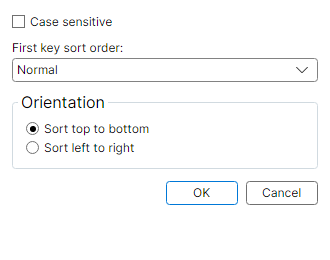
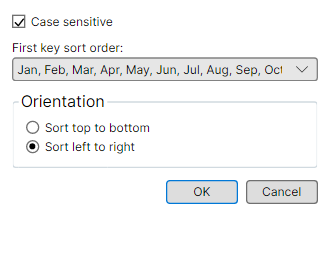
Improve Avalonia Sort Options visual parity

diff --git a/src/FreeX.App.Avalonia/MainWindow.cs b/src/FreeX.App.Avalonia/MainWindow.cs
@@ -18875,7 +18875,7 @@ public sealed partial class MainWindow : Window
         SortDialogOptions? result = null;
         var dialog = new Window
         {
-            Title = "Sort Options",
+            Title = UiText.Get("SortOptions_SortOptions"),
             Width = 330,
             Height = 260,
             MinWidth = 330,
@@ -18891,7 +18891,7 @@ public sealed partial class MainWindow : Window
 
         var caseSensitiveBox = new CheckBox
         {
-            Content = "Case sensitive",
+            Content = UiText.Get("SortOptions_CaseSensitive"),
             IsChecked = current.CaseSensitive,
             Margin = new Thickness(0, 0, 0, 10),
         };
@@ -18900,11 +18900,11 @@ public sealed partial class MainWindow : Window
 
         var firstKeyChoices = new[]
         {
-            new SortDialogComboItem<string>("Normal", normalFirstKeySortOrder),
-            new SortDialogComboItem<string>("Sun, Mon, Tue, Wed, Thu, Fri, Sat", "Sun, Mon, Tue, Wed, Thu, Fri, Sat"),
-            new SortDialogComboItem<string>("Sunday, Monday, Tuesday, Wednesday, Thursday, Friday, Saturday", "Sunday, Monday, Tuesday, Wednesday, Thursday, Friday, Saturday"),
-            new SortDialogComboItem<string>("Jan, Feb, Mar, Apr, May, Jun, Jul, Aug, Sep, Oct, Nov, Dec", "Jan, Feb, Mar, Apr, May, Jun, Jul, Aug, Sep, Oct, Nov, Dec"),
-            new SortDialogComboItem<string>("January, February, March, April, May, June, July, August, September, October, November, December", "January, February, March, April, May, June, July, August, September, October, November, December"),
+            new SortDialogComboItem<string>(UiText.Get("SortOptions_FirstKeyNormal"), normalFirstKeySortOrder),
+            new SortDialogComboItem<string>(UiText.Get("SortOptions_FirstKeySunToSatShort"), "Sun, Mon, Tue, Wed, Thu, Fri, Sat"),
+            new SortDialogComboItem<string>(UiText.Get("SortOptions_FirstKeySundayToSaturday"), "Sunday, Monday, Tuesday, Wednesday, Thursday, Friday, Saturday"),
+            new SortDialogComboItem<string>(UiText.Get("SortOptions_FirstKeyJanToDecShort"), "Jan, Feb, Mar, Apr, May, Jun, Jul, Aug, Sep, Oct, Nov, Dec"),
+            new SortDialogComboItem<string>(UiText.Get("SortOptions_FirstKeyJanuaryToDecember"), "January, February, March, April, May, June, July, August, September, October, November, December"),
         };
         var normalizedFirstKey = firstKeyChoices.FirstOrDefault(choice =>
             string.Equals(choice.Value, current.FirstKeySortOrder, StringComparison.Ordinal) ||
@@ -18920,6 +18920,7 @@ public sealed partial class MainWindow : Window
             MaxHeight = 24,
             Padding = new Thickness(5, 0, 4, 0),
             FontSize = 12,
+            Background = Brush(230, 230, 230),
             BorderBrush = Brush(130, 130, 130),
             BorderThickness = new Thickness(1),
             VerticalContentAlignment = AvaloniaVerticalAlignment.Center,
@@ -18928,14 +18929,14 @@ public sealed partial class MainWindow : Window
 
         var topToBottomButton = new RadioButton
         {
-            Content = "Sort top to bottom",
+            Content = UiText.Get("SortOptions_SortTopToBottom"),
             IsChecked = !current.LeftToRight,
             GroupName = "SortOptionsOrientation",
             Margin = new Thickness(0, 0, 0, 1),
         };
         var leftToRightButton = new RadioButton
         {
-            Content = "Sort left to right",
+            Content = UiText.Get("SortOptions_SortLeftToRight"),
             IsChecked = current.LeftToRight,
             GroupName = "SortOptionsOrientation",
         };
@@ -18948,6 +18949,8 @@ public sealed partial class MainWindow : Window
         var cancelButton = new Button { Content = "Cancel", IsCancel = true, MinWidth = 72 };
         ApplySortDialogButtonChrome(okButton, isDefault: true);
         ApplySortDialogButtonChrome(cancelButton);
+        okButton.Background = Brush(221, 221, 221);
+        cancelButton.Background = Brush(221, 221, 221);
         AutomationProperties.SetAutomationId(okButton, "SortOptionsOkButton");
         AutomationProperties.SetAutomationId(cancelButton, "SortOptionsCancelButton");
 
@@ -18982,11 +18985,11 @@ public sealed partial class MainWindow : Window
             Children =
             {
                 caseSensitiveBox,
-                new TextBlock { Text = "First key sort order:", FontSize = 12, Margin = new Thickness(0, 0, 0, 3) },
+                new TextBlock { Text = StripDisplayMnemonic(UiText.Get("SortOptions_FirstKeySortOrderLabel")), FontSize = 12, Margin = new Thickness(0, 0, 0, 3) },
                 firstKeyBox,
                 new GroupBox
                 {
-                    Header = "Orientation",
+                    Header = StripDisplayMnemonic(UiText.Get("SortOptions_Orientation")),
                     Padding = new Thickness(8, 7, 8, 7),
                     Margin = new Thickness(0, 0, 0, 10),
                     BorderBrush = Brush(209, 218, 224),

diff --git a/tests/FreeX.App.Avalonia.Tests/DialogVisualParitySourceTests.cs b/tests/FreeX.App.Avalonia.Tests/DialogVisualParitySourceTests.cs
@@ -69,6 +69,29 @@ public sealed class DialogVisualParitySourceTests
         chrome.Should().Contain("groupBox.BorderBrush = borderBrush ?? GroupBoxBorderBrush;");
     }
 
+    [Fact]
+    public void SortOptionsDialog_UsesSharedLocalizationAndReferenceCaptureState()
+    {
+        var source = File.ReadAllText(RepoFile("src", "FreeX.App.Avalonia", "MainWindow.cs"));
+        var captureSource = File.ReadAllText(RepoFile("src", "FreeX.App.Avalonia", "MainWindow.ParityCapture.cs"));
+
+        source.Should().Contain("Title = UiText.Get(\"SortOptions_SortOptions\")");
+        source.Should().Contain("Content = UiText.Get(\"SortOptions_CaseSensitive\")");
+        source.Should().Contain("UiText.Get(\"SortOptions_FirstKeySortOrderLabel\")");
+        source.Should().Contain("UiText.Get(\"SortOptions_FirstKeyJanToDecShort\")");
+        source.Should().Contain("Content = UiText.Get(\"SortOptions_SortTopToBottom\")");
+        source.Should().Contain("Content = UiText.Get(\"SortOptions_SortLeftToRight\")");
+        source.Should().Contain("Header = StripDisplayMnemonic(UiText.Get(\"SortOptions_Orientation\"))");
+        source.Should().Contain("FirstKeySortOrder: firstKeyBox.SelectedItem is SortDialogComboItem<string> choice");
+        source.Should().Contain("AutomationProperties.SetAutomationId(dialog, \"SortOptionsDialog\")");
+        source.Should().Contain("AutomationProperties.SetAutomationId(firstKeyBox, \"SortOptionsFirstKeySortOrderBox\")");
+        source.Should().Contain("AutomationProperties.SetAutomationId(leftToRightButton, \"SortOptionsLeftToRightRadio\")");
+
+        captureSource.Should().Contain("CaseSensitive: true");
+        captureSource.Should().Contain("LeftToRight: true");
+        captureSource.Should().Contain("FirstKeySortOrder: \"Jan, Feb, Mar, Apr, May, Jun, Jul, Aug, Sep, Oct, Nov, Dec\"");
+    }
+
     private static string RepoFile(params string[] parts)
     {
         var directory = new DirectoryInfo(AppContext.BaseDirectory);

diff --git a/src/FreeX.App.Avalonia/MainWindow.ParityCapture.cs b/src/FreeX.App.Avalonia/MainWindow.ParityCapture.cs
@@ -464,7 +464,13 @@ public sealed partial class MainWindow
         ("dialog.CreateTable", () => ShowCreateTableParityDialogAsync()),
         ("dialog.RecommendedPivotTables", async () => { await ShowRecommendedPivotTablesDialogAsync(); }),
         ("dialog.Sort", () => ShowSortDialogAsync()),
-        ("dialog.SortOptions", async () => { await ShowSortOptionsDialogAsync(new SortDialogOptions()); }),
+        ("dialog.SortOptions", async () =>
+        {
+            await ShowSortOptionsDialogAsync(new SortDialogOptions(
+                CaseSensitive: true,
+                LeftToRight: true,
+                FirstKeySortOrder: "Jan, Feb, Mar, Apr, May, Jun, Jul, Aug, Sep, Oct, Nov, Dec"));
+        }),
         ("dialog.AutoFilter", () => ShowAutoFilterParityDialogAsync()),
         ("dialog.TextToColumns", () => ShowTextToColumnsParityDialogAsync()),
         ("dialog.AdvancedFilter", () => ShowAdvancedFilterParityDialogAsync()),

diff --git a/docs/parity/dialog-visual-evidence-summary.md b/docs/parity/dialog-visual-evidence-summary.md
@@ -63,7 +63,6 @@ Outliers are ranked by a deterministic triage score: normalized 32x32 ARGB sampl
 | Surface id | WPF logical size | Avalonia logical size | Raw PNG sizes | Bucket | Evidence flag | Score | Sample delta | Luma delta | Non-bg delta |
 | --- | ---: | ---: | --- | --- | --- | ---: | ---: | ---: | ---: |
 | dialog.PrintPreview | 1120x700 | 1120x700 | 1120x700 px @ 96 DPI vs 1120x700 px @ 96 DPI |  |  | 0.378 | 0.126 | 0.061 | 0.191 |
-| dialog.SortOptions | 330x260 | 330x260 | 495x390 px @ 144 DPI vs 330x260 px @ 96 DPI |  |  | 0.237 | 0.047 | 0.028 | 0.162 |
 | dialog.ShapeEffects | 380x190 | 380x190 | 570x285 px @ 144 DPI vs 380x190 px @ 96 DPI |  |  | 0.215 | 0.031 | 0.021 | 0.163 |
 | dialog.Sparkline | 380x280 | 380x280 | 380x280 px @ 96 DPI vs 380x280 px @ 96 DPI |  |  | 0.187 | 0.054 | 0.016 | 0.117 |
 | dialog.AllowEditRanges | 430x360 | 430x360 | 645x540 px @ 144 DPI vs 430x360 px @ 96 DPI |  |  | 0.187 | 0.039 | 0.002 | 0.145 |
@@ -72,6 +71,7 @@ Outliers are ranked by a deterministic triage score: normalized 32x32 ARGB sampl
 | dialog.Subtotal | 380x390 | 380x390 | 570x585 px @ 144 DPI vs 380x390 px @ 96 DPI |  |  | 0.166 | 0.032 | 0.015 | 0.119 |
 | dialog.FormatCells.Fill | 620x540 | 620x540 | 620x540 px @ 96 DPI vs 620x540 px @ 96 DPI |  |  | 0.159 | 0.031 | 0.038 | 0.090 |
 | dialog.Options.QuickAccessToolbar | 744x521 | 744x521 | 744x521 px @ 96 DPI vs 744x521 px @ 96 DPI |  |  | 0.139 | 0.021 | 0.018 | 0.101 |
+| dialog.PageSetup.HeaderFooter | 600x560 | 600x560 | 600x560 px @ 96 DPI vs 600x560 px @ 96 DPI |  |  | 0.127 | 0.040 | 0.012 | 0.076 |
 
 ## Scale-Aware Dimension Mismatch Details
 
@@ -173,7 +173,7 @@ These rows have a DPI-normalized checked-in PNG size that disagrees with the dia
 | dialog.ShapeEffects | dialog.ShapeEffects.png | 380x190 | 570x285 px @ 144 DPI | True | dialog.ShapeEffects.png | 380x190 | 380x190 px @ 96 DPI | True | True | 0.215 |
 | dialog.ShapeGradient | dialog.ShapeGradient.png | 500x300 | 500x300 px @ 96 DPI | True | dialog.ShapeGradient.png | 500x300 | 500x300 px @ 96 DPI | True | True | 0.082 |
 | dialog.Sort | dialog.Sort.png | 760x500 | 760x500 px @ 96 DPI | True | dialog.Sort.png | 760x500 | 760x500 px @ 96 DPI | True | True | 0.042 |
-| dialog.SortOptions | dialog.SortOptions.png | 330x260 | 495x390 px @ 144 DPI | True | dialog.SortOptions.png | 330x260 | 330x260 px @ 96 DPI | True | True | 0.237 |
+| dialog.SortOptions | dialog.SortOptions.png | 330x260 | 495x390 px @ 144 DPI | True | dialog.SortOptions.png | 330x260 | 330x260 px @ 96 DPI | True | True | 0.111 |
 | dialog.Sparkline | dialog.Sparkline.png | 380x280 | 380x280 px @ 96 DPI | True | dialog.Sparkline.png | 380x280 | 380x280 px @ 96 DPI | True | True | 0.187 |
 | dialog.Subtotal | dialog.Subtotal.png | 380x390 | 570x585 px @ 144 DPI | True | dialog.Subtotal.png | 380x390 | 380x390 px @ 96 DPI | True | True | 0.166 |
 | dialog.SymbolPicker | dialog.SymbolPicker.png | 840x620 | 840x620 px @ 96 DPI | True | dialog.SymbolPicker.png | 840x620 | 840x620 px @ 96 DPI | True | True | 0.036 |
